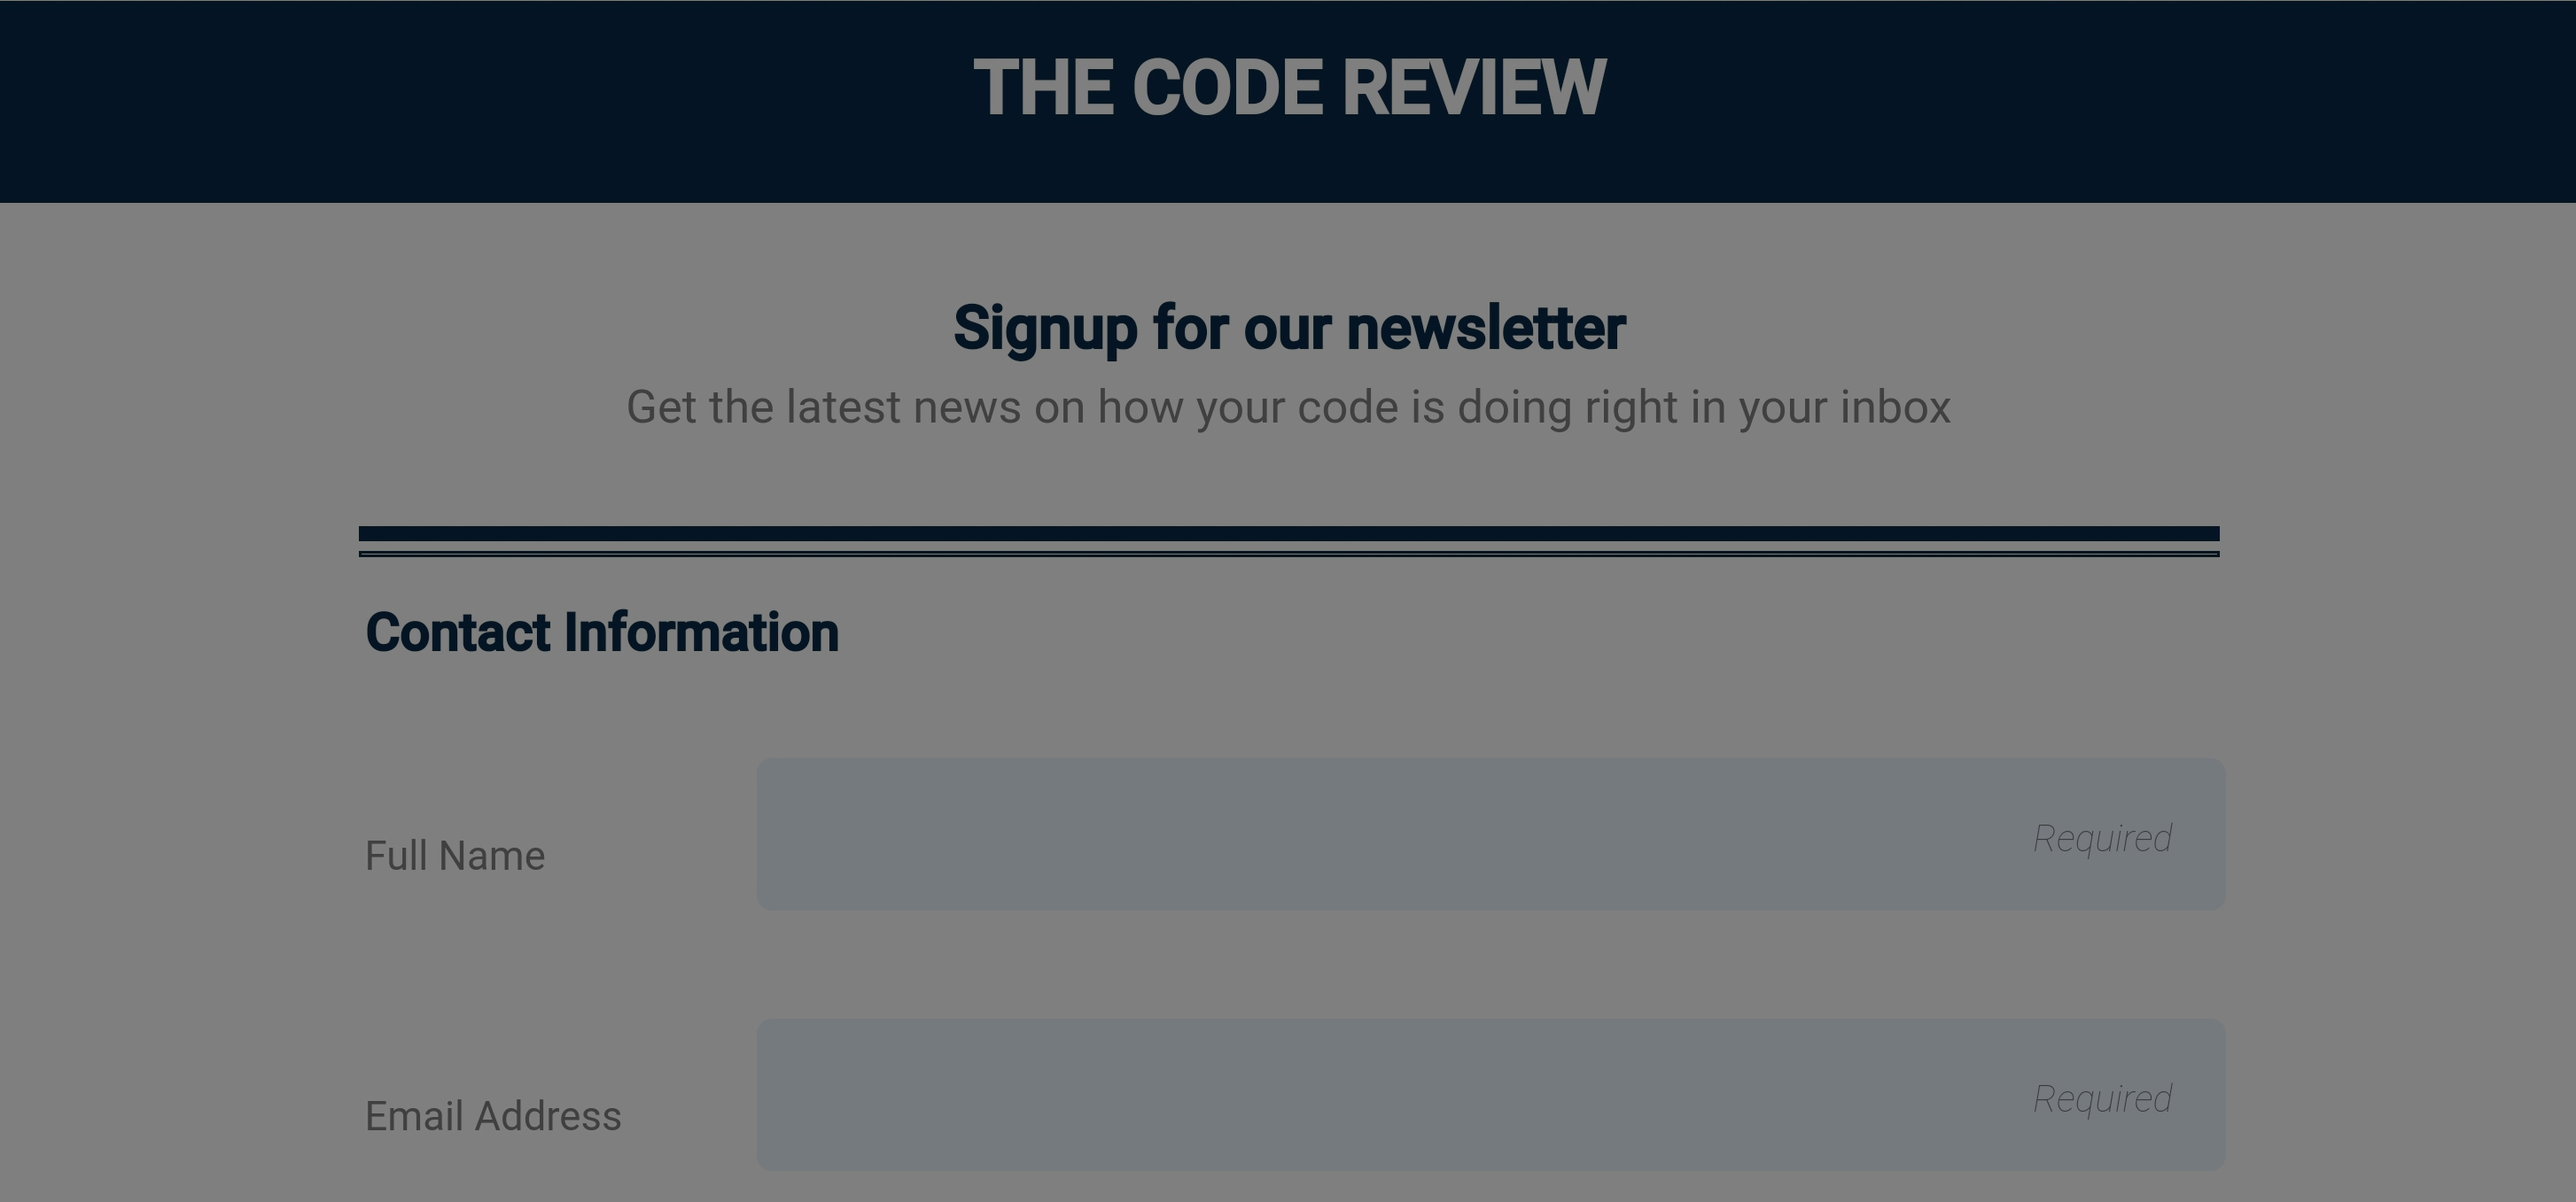
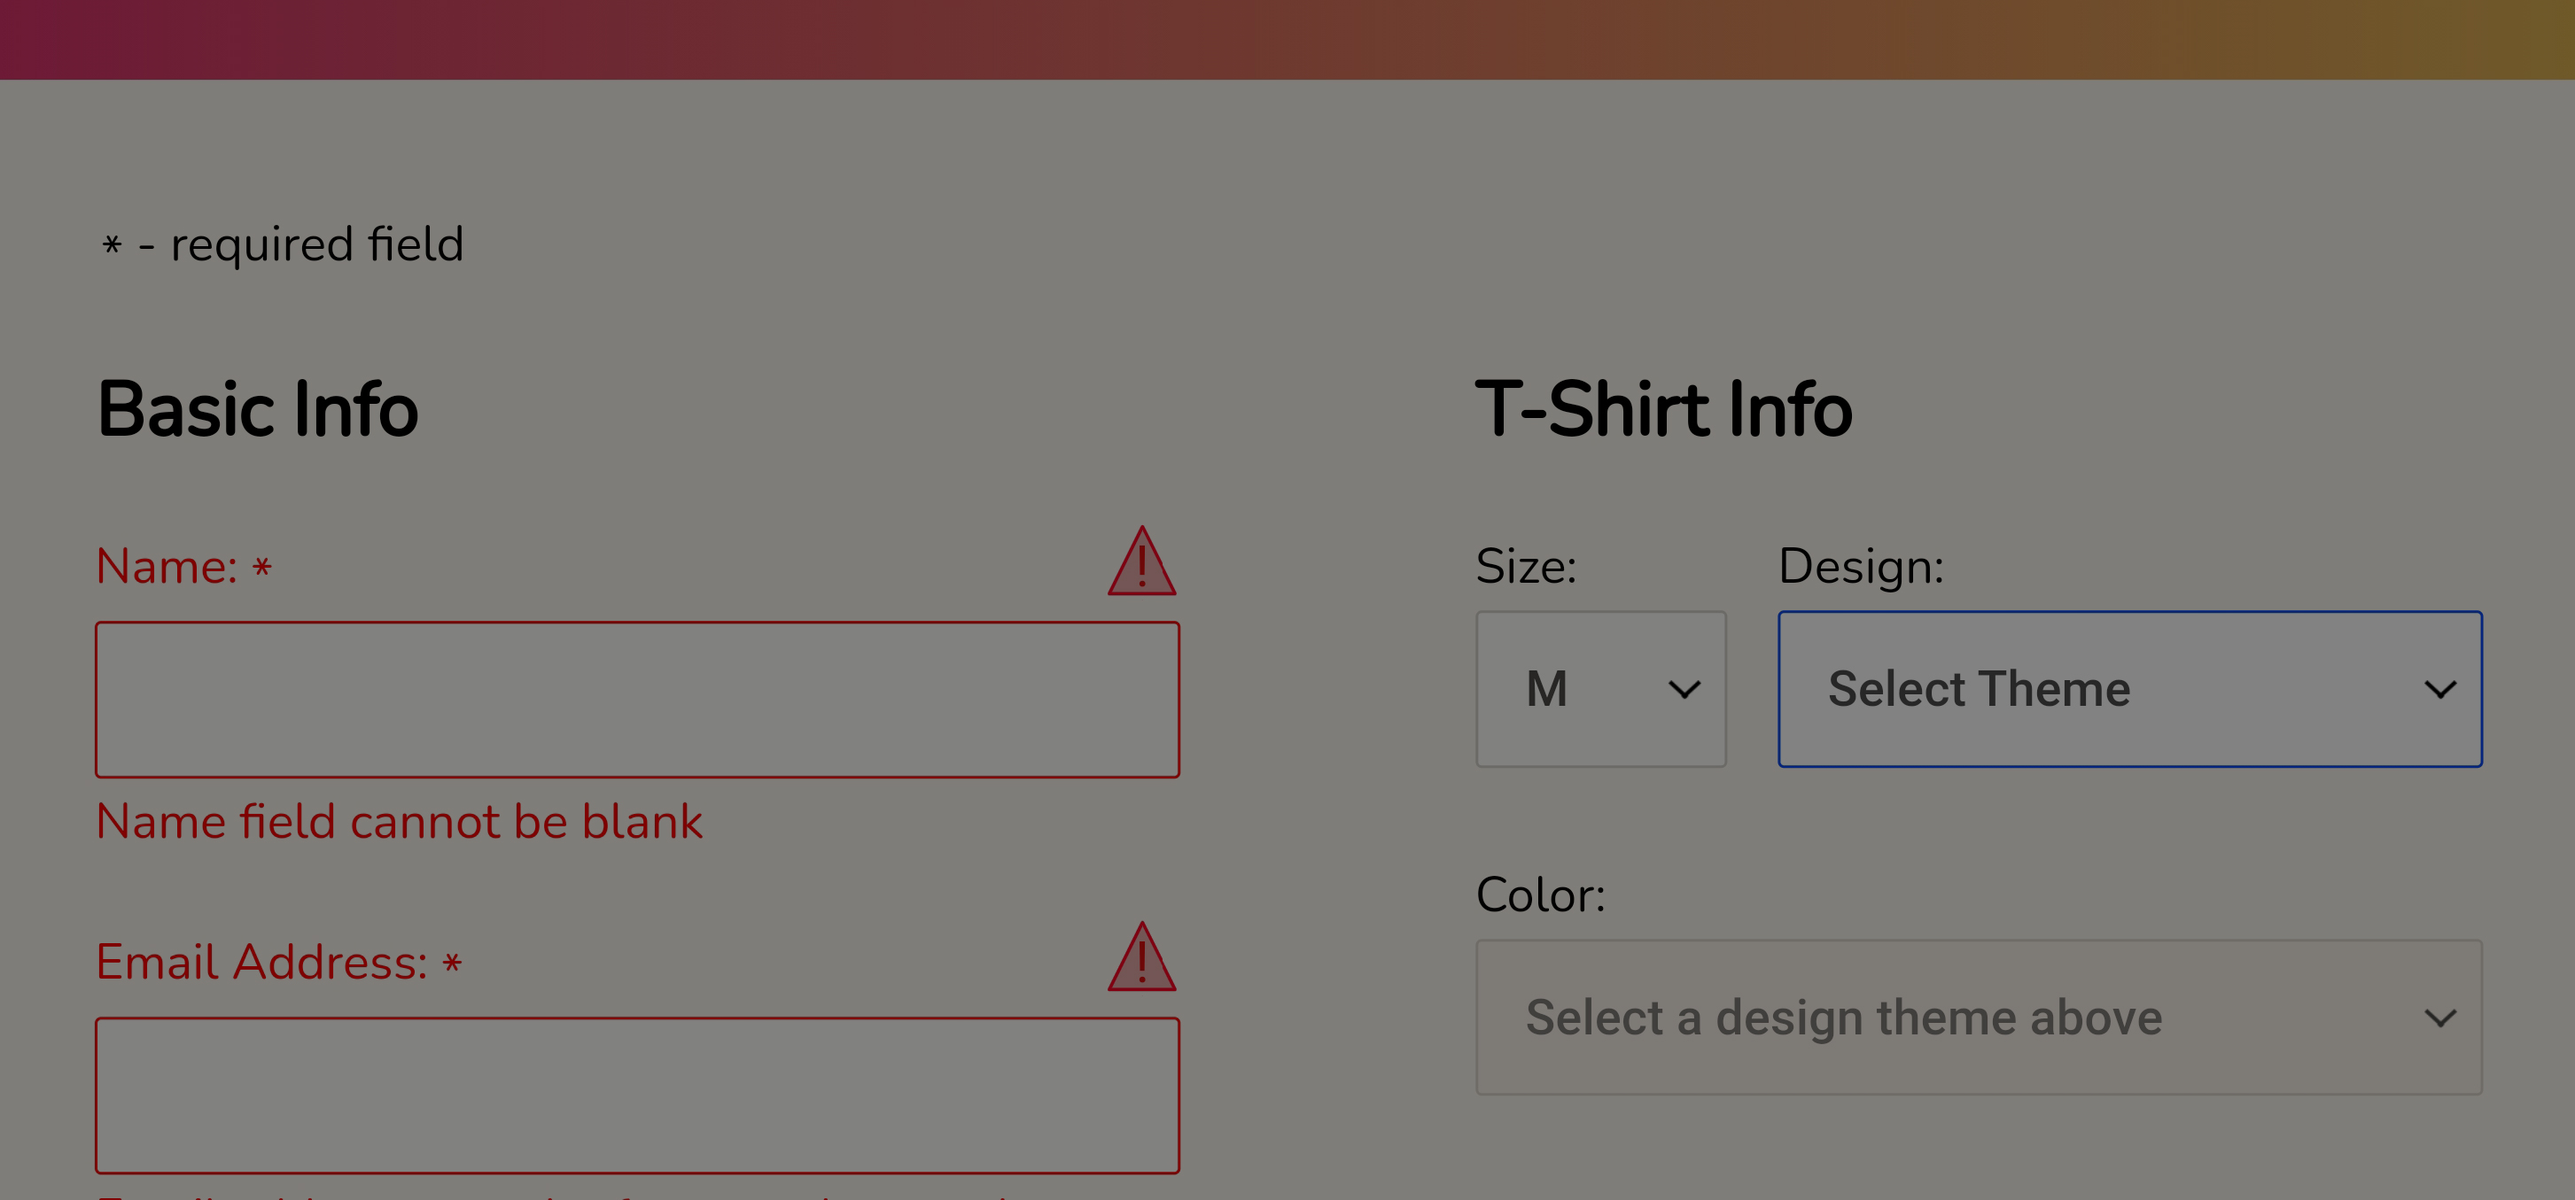
project replace

diff --git a/index.html b/index.html
@@ -330,14 +330,16 @@
 
           <div class="col-md-6 col-lg-4">
             <div class="card mb-3 border border-info">
-              <a href="https://akibrahimug.github.io/registration/" target="_blank"><img src="img/project-6-darkmode.jpg" class="card-img-top border-bottom border-info" alt="Image of the website called online registration form "></a>
+              <a href="https://akibrahimug.github.io/form-validation/" target="_blank"><img src="img/project-6-darkmode.jpg" class="card-img-top border-bottom border-info" alt="Image of the website called online registration form "></a>
               <div class="card-body">
                 <h5 class="card-title text-info text-center">Online Registration Form</h5>
                 <div class="btn-group btn-group-sm d-flex" role="group" aria-label="Basic example">
-                  <a href="https://akibrahimug.github.io/registration/" class="btn btn-primary rounded-start" target="_blank">Live Site</a>
-                  <a href="https://github.com/akibrahimug/registration" class="btn btn-info" target="_blank">Source Code</a>
+                  <a href="https://akibrahimug.github.io/form-validation/" class="btn btn-primary rounded-start" target="_blank">Live Site</a>
+                  <a href="https://github.com/akibrahimug/form-validation/" class="btn btn-info" target="_blank">Source Code</a>
                 </div>
-                <p class="card-text mt-3 border-top border-info">On this project I used plain HTML5 and CSS to make a fully responsive Form page with defualt browser validation 
+                <p class="card-text mt-3 border-top border-info">In this project, I used JavaScript, HTML and CSS to enhance an interactive registration form for a fictional Full Stack conference.
+                  The form is fully customized with conditional behavior and interactivity
+                  Validating user with Regular Expressions input and providing helpful error messages when the user enters invalid information into the form fields.
                 </p>
               </div>
             </div>
